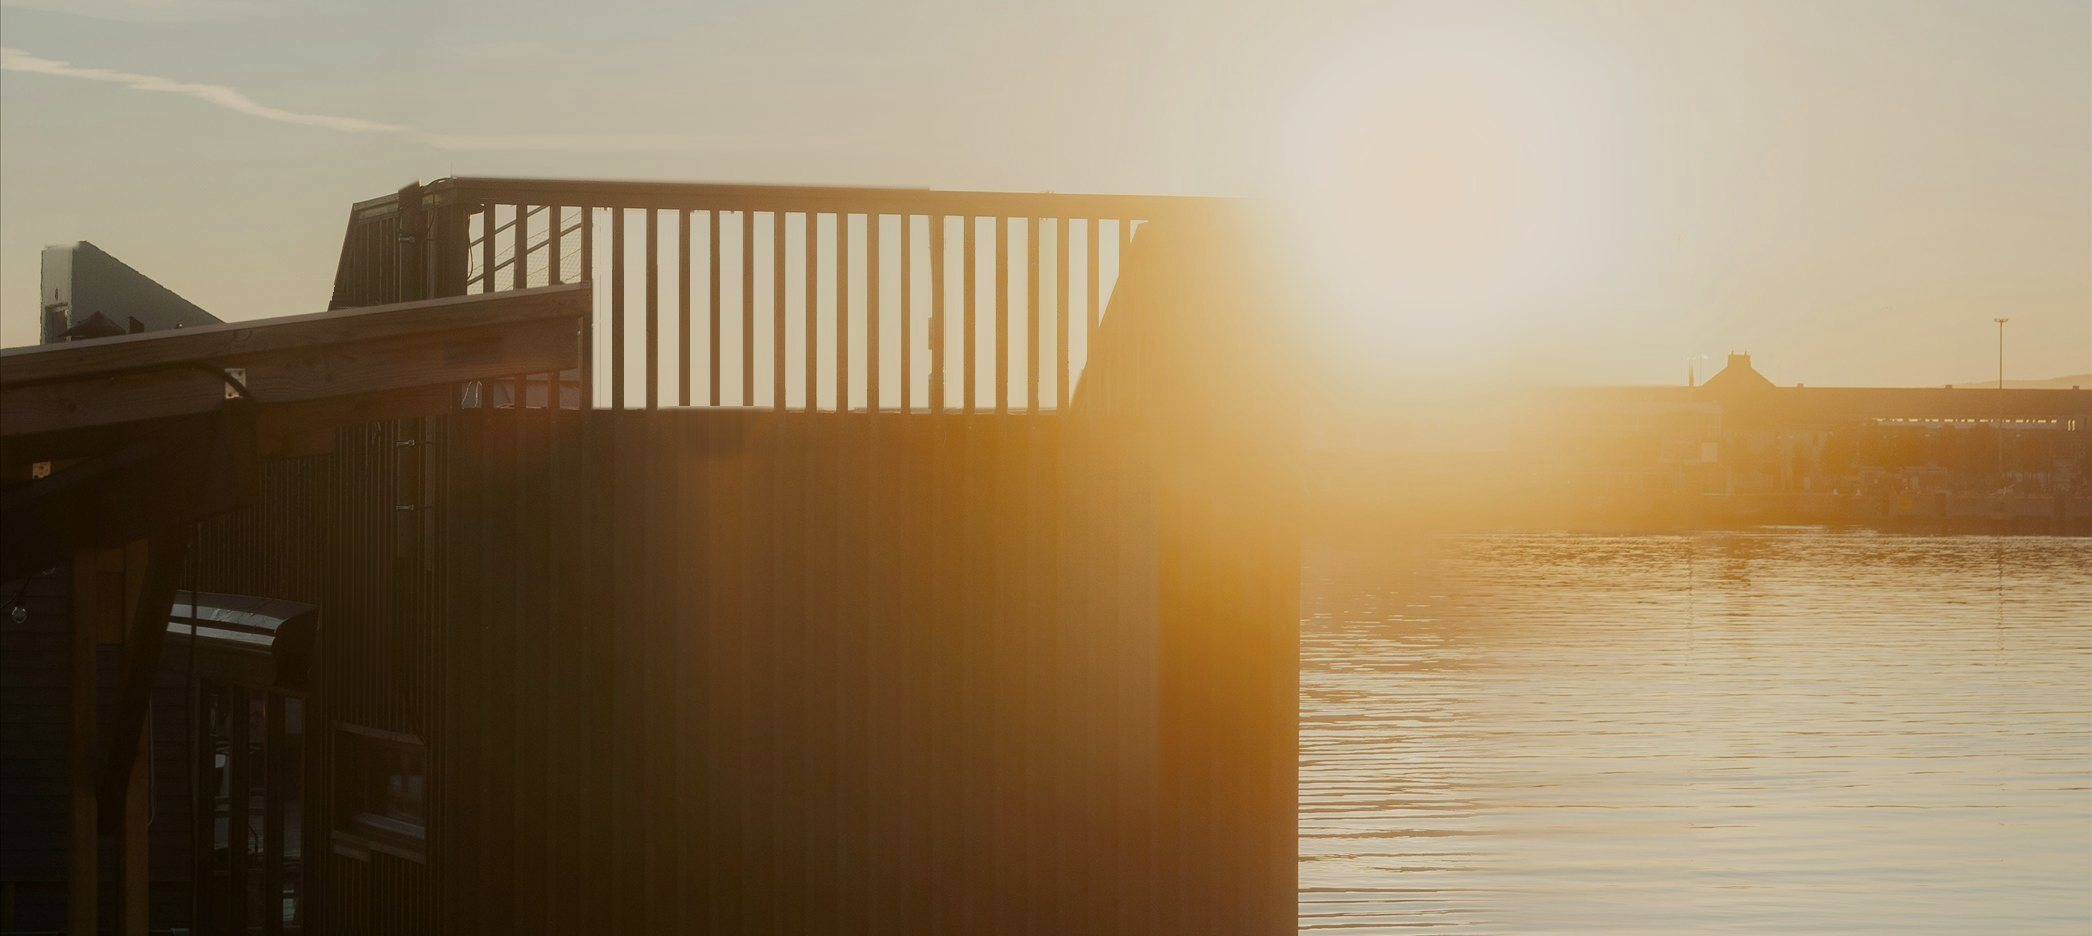
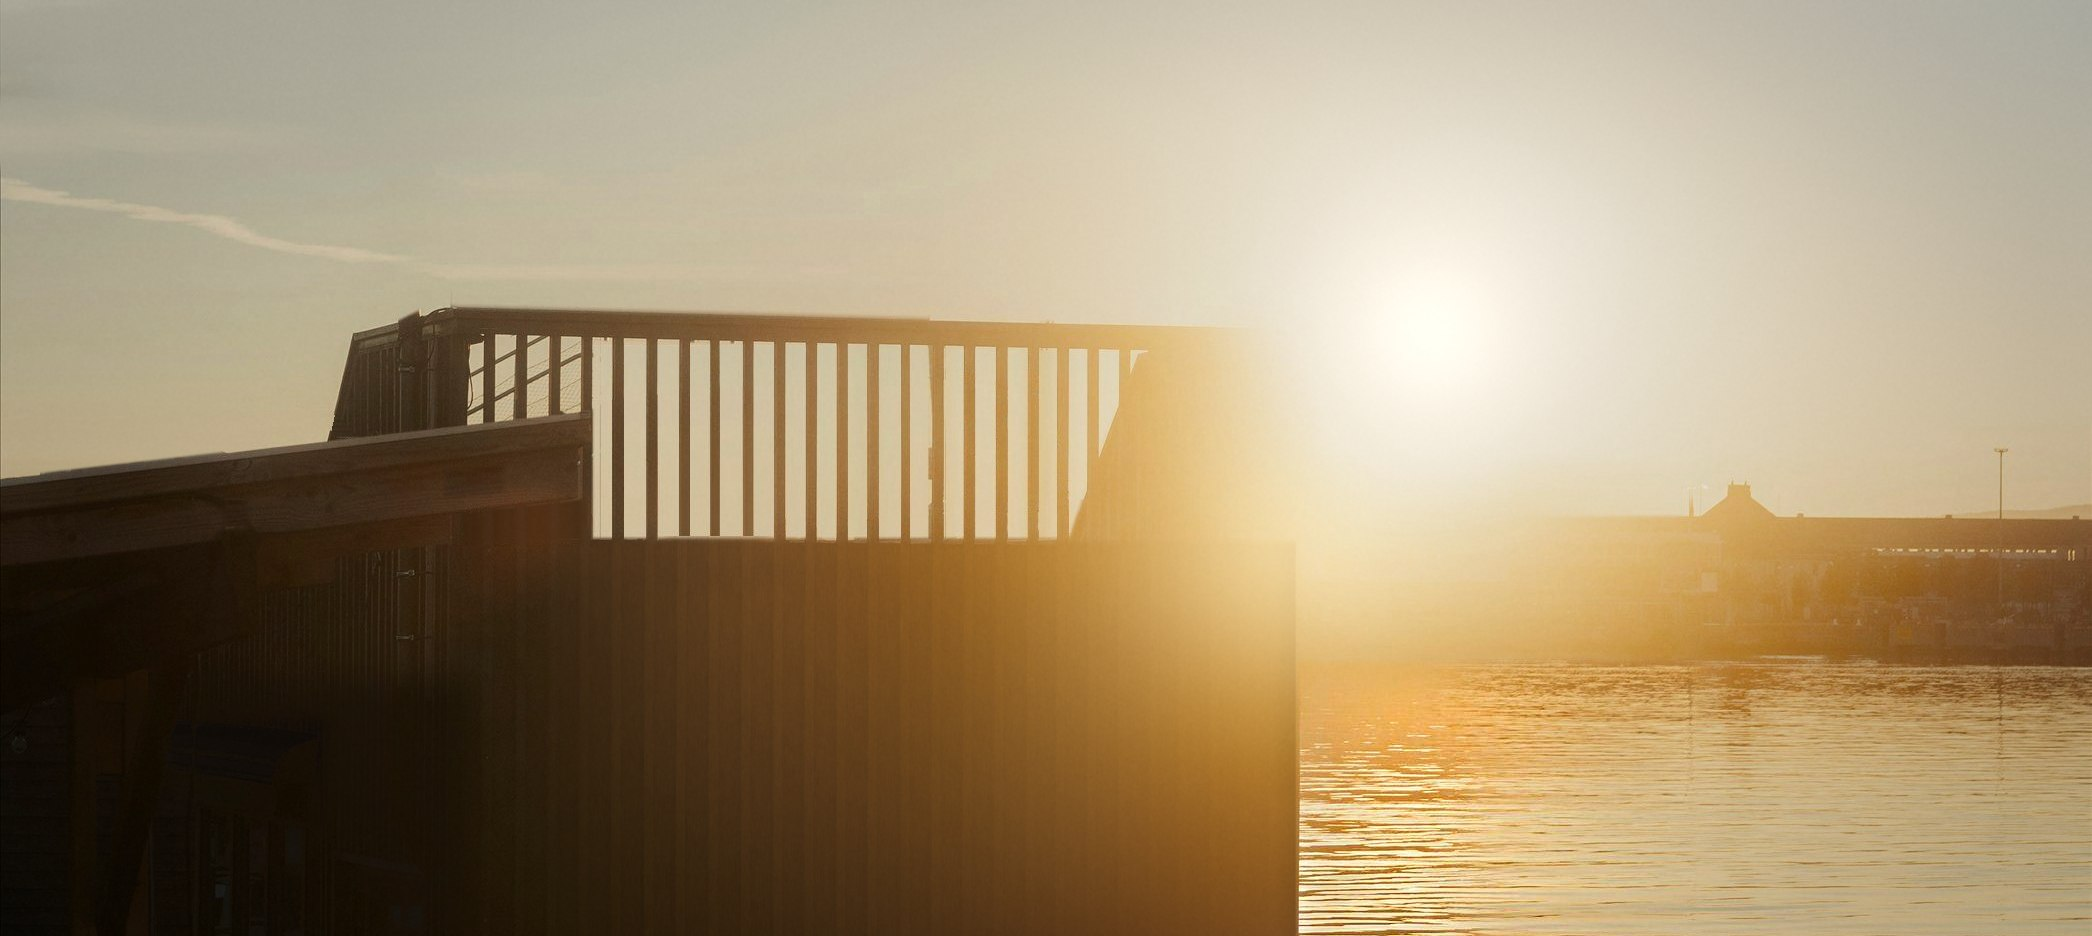
Landing: finish the hero photo
Move the crop up for more sky, rebuild the wall boards to remove retouching seams, clear the remaining clutter, and rework the sun's glow and its light on the water.

diff --git a/ASSETS.md b/ASSETS.md
@@ -15,7 +15,7 @@ They are in `.docs/planning-artifacts/ux-designs/ux-booking-platform-2026-11-05/
 | `sauna-kajo-kiulu.jpg` | Landing, Kajo | ["Modern Indoor Sauna with Wooden Panels"](https://www.pexels.com/photo/modern-indoor-sauna-with-wooden-panels-36420272/) by HUUM │sauna heaters, Pexels licence, cropped, brand name on the bucket retouched out, soft warm glow added | A black sauna bucket with a curved wooden handle and a wooden-handled ladle, on a pale wooden bench. |
 | `sauna-loyly-kiuas.jpg` | Landing, Löyly | ["Pouring Liquid on Stones near Windows"](https://www.pexels.com/photo/pouring-liquid-on-stones-near-windows-18285439/) by HUUM │sauna heaters, Pexels licence, cropped | Water dripping from a black ladle onto grey stones heaped around a sauna stove's chimney. |
 | `sauna-lumo-lauteet.jpg` | Landing, Lumo | ["Modern Nordic Sauna Interior with Wooden Design"](https://www.pexels.com/photo/modern-nordic-sauna-interior-with-wooden-design-36077597/) by HUUM │sauna heaters, Pexels licence, cropped to the benches so that the heater and its brand name are left out, colours and contrast adjusted to match the other sauna photos | Empty wooden sauna benches along a wall, lit softly from behind the backrest. |
-| `hero-sauna-by-the-water.jpg` | Landing, hero | ["Oslo badsteforening sauna at sunset"](https://unsplash.com/photos/DusOaeCX_ss) by Eirik Skarstein, Unsplash licence, cropped to landscape, the organisation's logo and name, the SAUNA sign, a sign on a building, a sticker, a notice, a life buoy, two poles, a tall building with its reflection, the crane and buildings behind the railing and a lens flare retouched out, sun softened, colours and contrast adjusted to match the sauna photos | A dark wooden sauna with a railing on its roof, at the edge of calm water, with the low sun glowing softly over the harbour and golden light on the surface. |
+| `hero-sauna-by-the-water.jpg` | Landing, hero | ["Oslo badsteforening sauna at sunset"](https://unsplash.com/photos/DusOaeCX_ss) by Eirik Skarstein, Unsplash licence, cropped to landscape, the organisation's logo and name, the SAUNA sign, a sign on a building, a sticker, a notice, a life buoy, two poles, a tall building with its reflection, the crane and buildings behind the railing, a far building, an awning's reflection and a lens flare retouched out, wall boards rebuilt from a clean part of the photo, sun's glow and its light on the water reworked, colours and contrast adjusted to match the sauna photos | A dark wooden sauna with a railing on its roof, at the edge of calm water, with the low sun glowing softly over the harbour and golden light on the surface. |
 | `before-towels.jpg` | Landing, Before you come | ["Brown Bottle on Towels"](https://www.pexels.com/photo/brown-bottle-on-towels-7795756/) by Alesia Kozik, Pexels licence, rotated and cropped so that the bottle is left out, colours and contrast adjusted to match the sauna photos | A rolled grey towel beside a beige towel in a cork tray. |
 
 ## Fonts

diff --git a/.docs/planning-artifacts/ux-designs/ux-booking-platform-2026-11-05/.memlog.md b/.docs/planning-artifacts/ux-designs/ux-booking-platform-2026-11-05/.memlog.md
@@ -74,3 +74,4 @@ updated: 2026-11-09T15:47
 - (decision by Lisa) Landing image sizes (2026-11-09): the steam band is narrower and shorter (220 px, inset like the towel image), and the towel image is taller (300 px, re-cropped from the source, more of the top and less of the left). DESIGN.md tokens updated.
 - (decision by Lisa) Find us (2026-11-09): the top rule is removed, because it stuck out to the left of the narrower steam band.
 - (decision by Lisa) Hero image (2026-11-09): replaced by Unsplash photo DusOaeCX_ss by Eirik Skarstein, a sauna on the water at sunset. The logo and name of the real organisation, a building sign, a sticker and a notice are retouched out (DR-3). At Lisa's request the SAUNA sign, the life buoy, two poles, the tall building with its reflection, the crane and buildings behind the railing and the lens flare are removed too, and the sun is softened. Colours and contrast are adjusted to match the sauna images. The water now matches "by the sea" in the Venue text.
+- (decision by Lisa) Hero image finish (2026-11-09): the crop moves up for more sky and less wall, the wall's boards are rebuilt from a clean part of the source to remove retouching seams, a far building and an awning's shine are removed, and the sun's glow and its light on the water are reworked.
